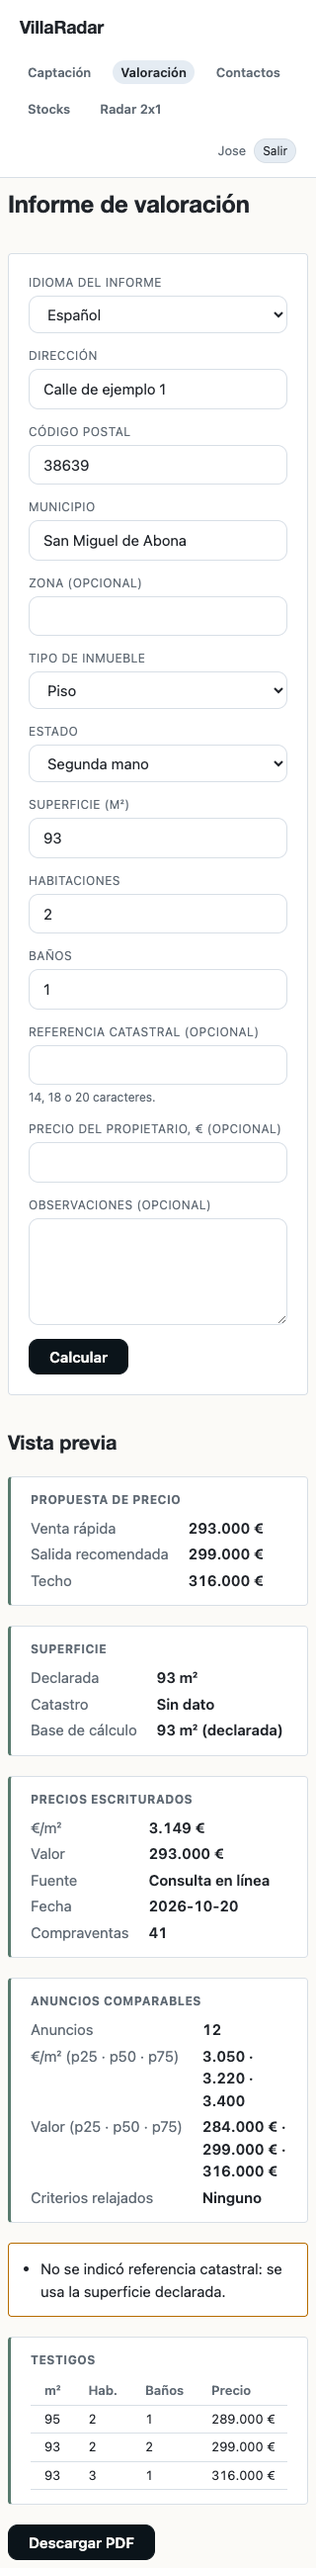
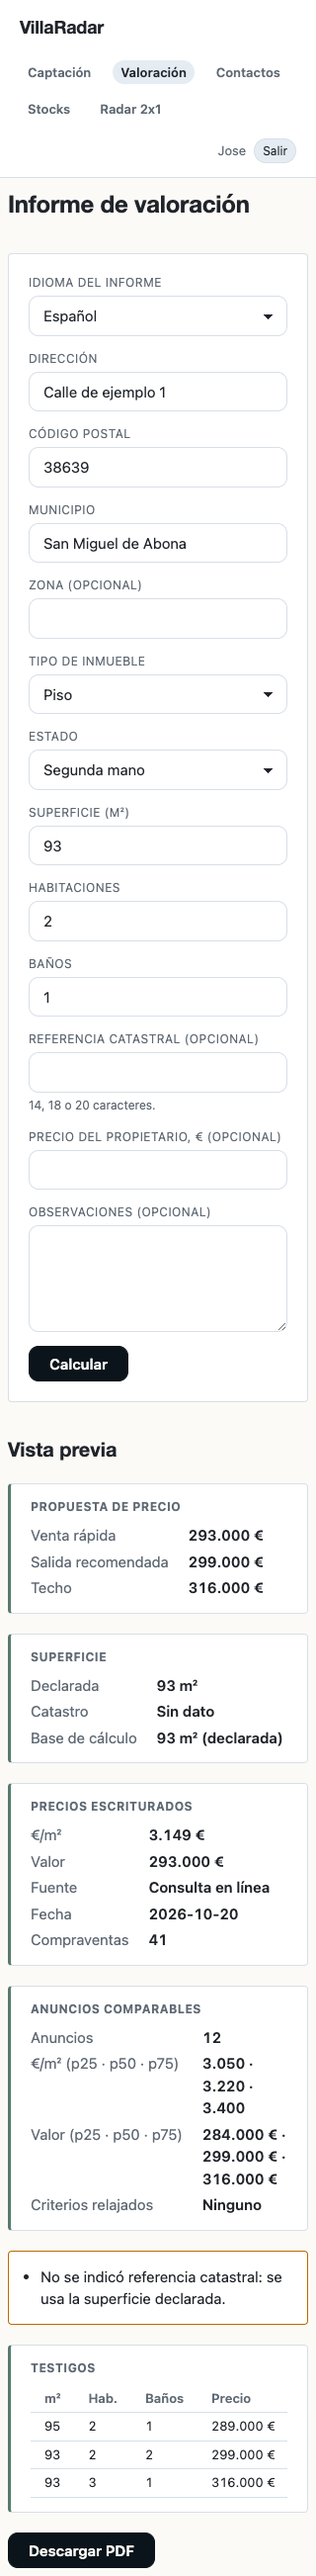
fix: flecha propia en los select de valoración (la nativa desestabilizaba las capturas); capturas regeneradas

diff --git a/src/estilos/componentes.css b/src/estilos/componentes.css
@@ -721,6 +721,19 @@ dialog.dialogo-columnas form {
   color: var(--txt);
   font: inherit;
 }
+/* Flecha propia: la nativa cambia de dibujo según hover/foco y desestabiliza las capturas. */
+.form-valoracion select {
+  appearance: none;
+  padding-right: var(--espacio-5);
+  background-image:
+    linear-gradient(45deg, transparent 50%, var(--txt) 50%),
+    linear-gradient(135deg, var(--txt) 50%, transparent 50%);
+  background-position:
+    calc(100% - 18px) calc(50% + 1px),
+    calc(100% - 13px) calc(50% + 1px);
+  background-size: 5px 5px;
+  background-repeat: no-repeat;
+}
 .form-valoracion [aria-invalid="true"] {
   border-color: var(--red);
 }
